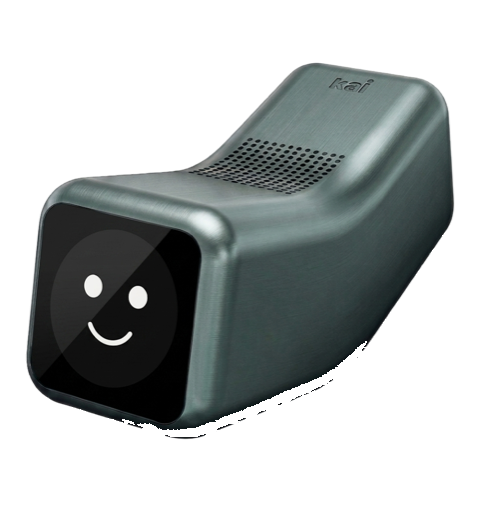
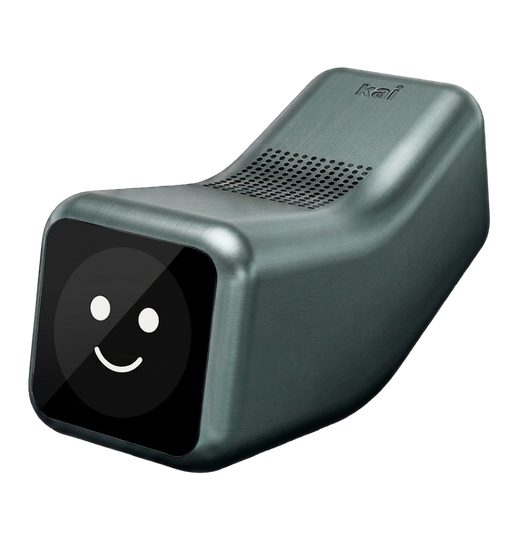
fix(device): use the Kai PNG as-is — it's already transparent, no cutout
The source PNG already has an alpha background; just resize it (preserving alpha). Reverts the earlier unnecessary flood-fill.

Changed region(s): [[0.2484, 0.6769, 0.7453, 0.8615], [0.7453, 0.6462, 0.7764, 0.6769], [0.1863, 0.6154, 0.2174, 0.6462]]

diff --git a/webapp/src/components/device/DeviceManager.js b/webapp/src/components/device/DeviceManager.js
@@ -109,7 +109,7 @@ export default function DeviceManager({ devices }) {
             </div>
             <div className={styles.pairKaiArt}>
               {/* eslint-disable-next-line @next/next/no-img-element */}
-              <img src="/kai.png" alt="Kai voice device" width={483} height={520} />
+              <img src="/kai.png" alt="Kai voice device" width={521} height={560} />
             </div>
           </div>
         </Card>
